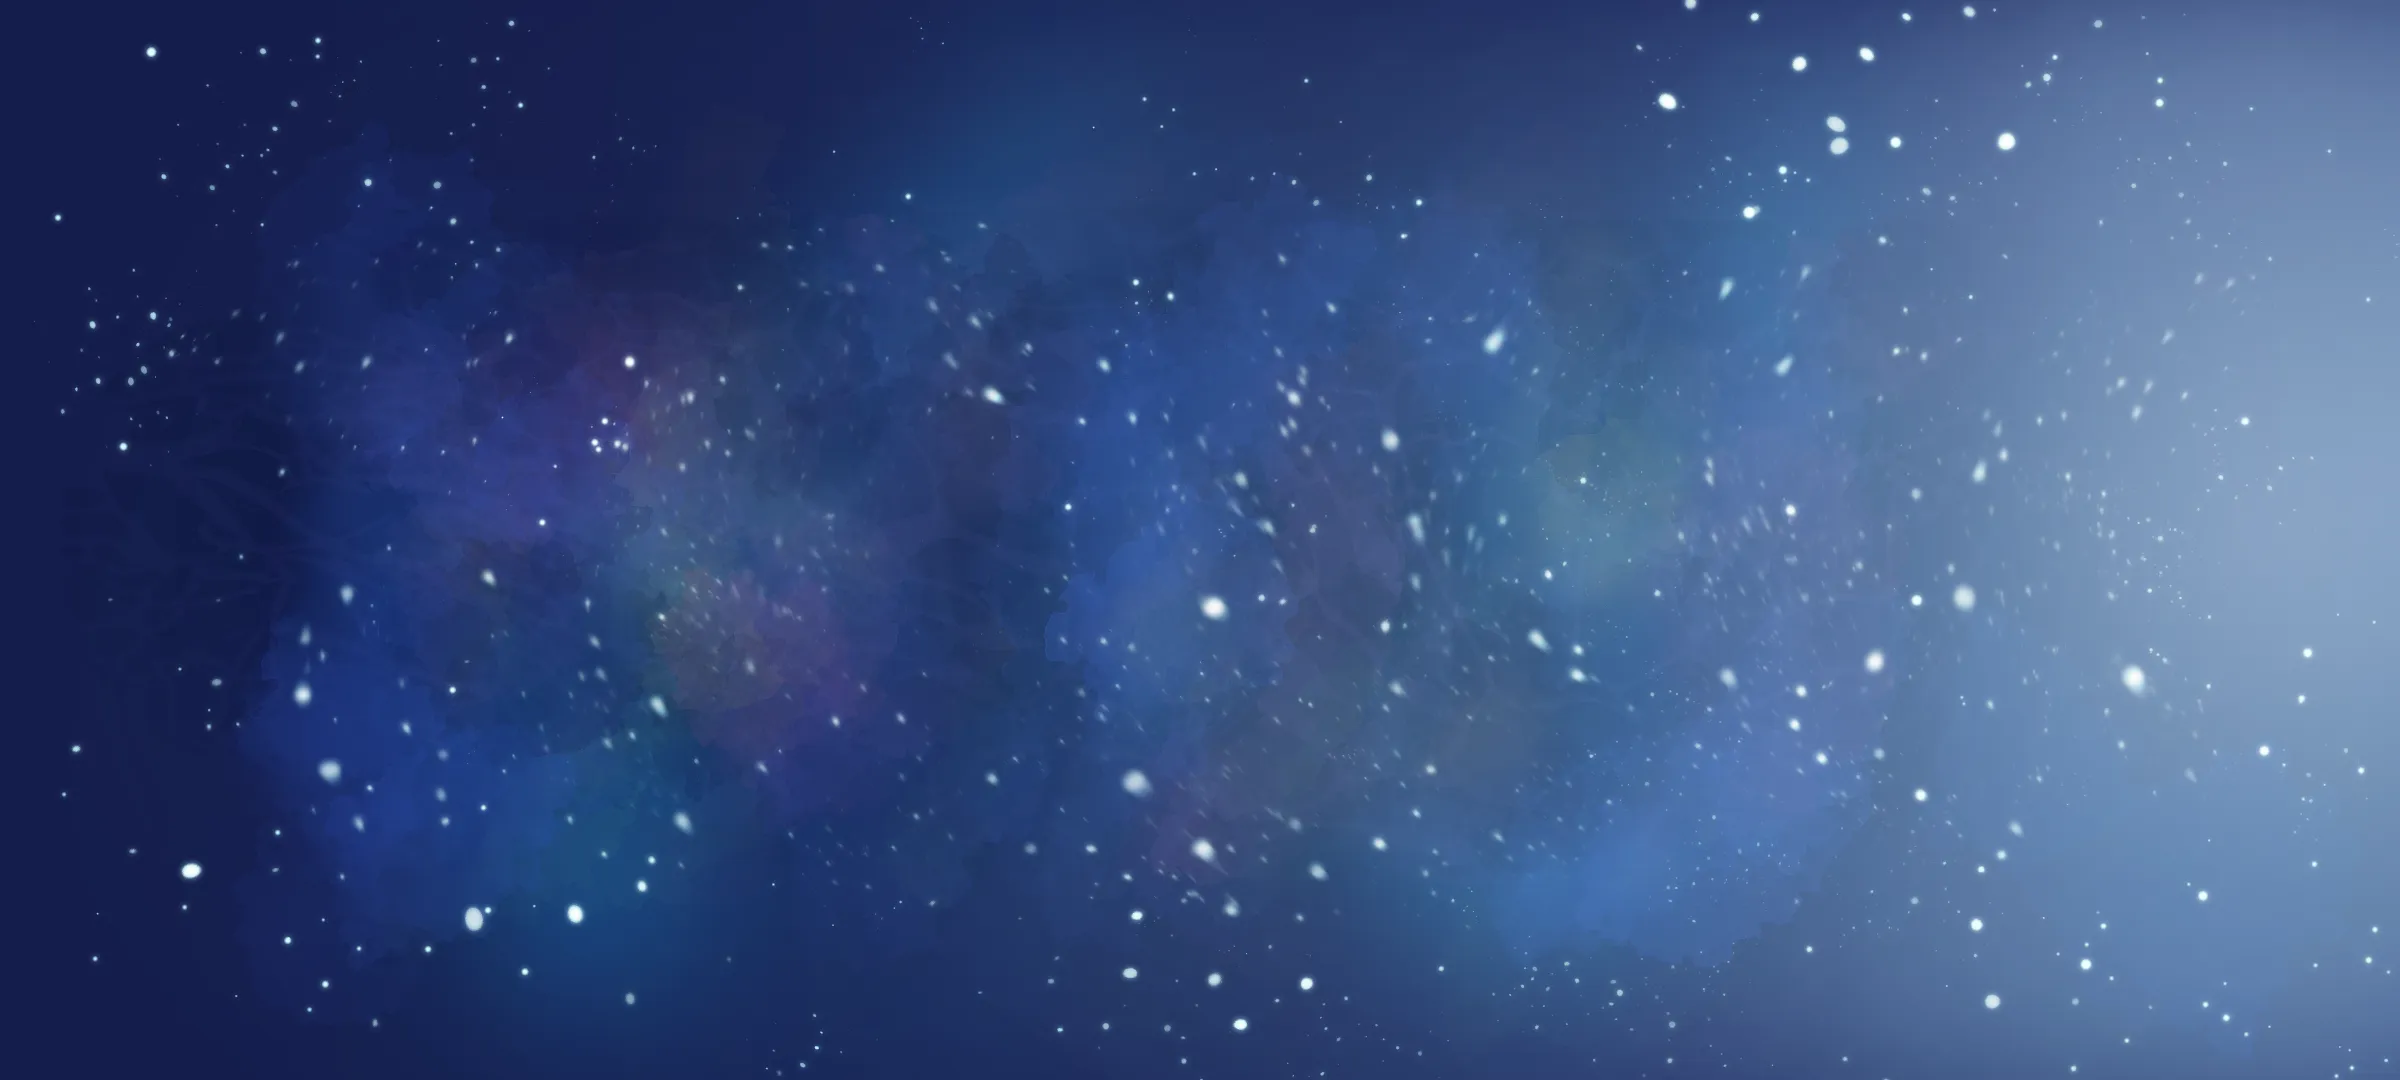
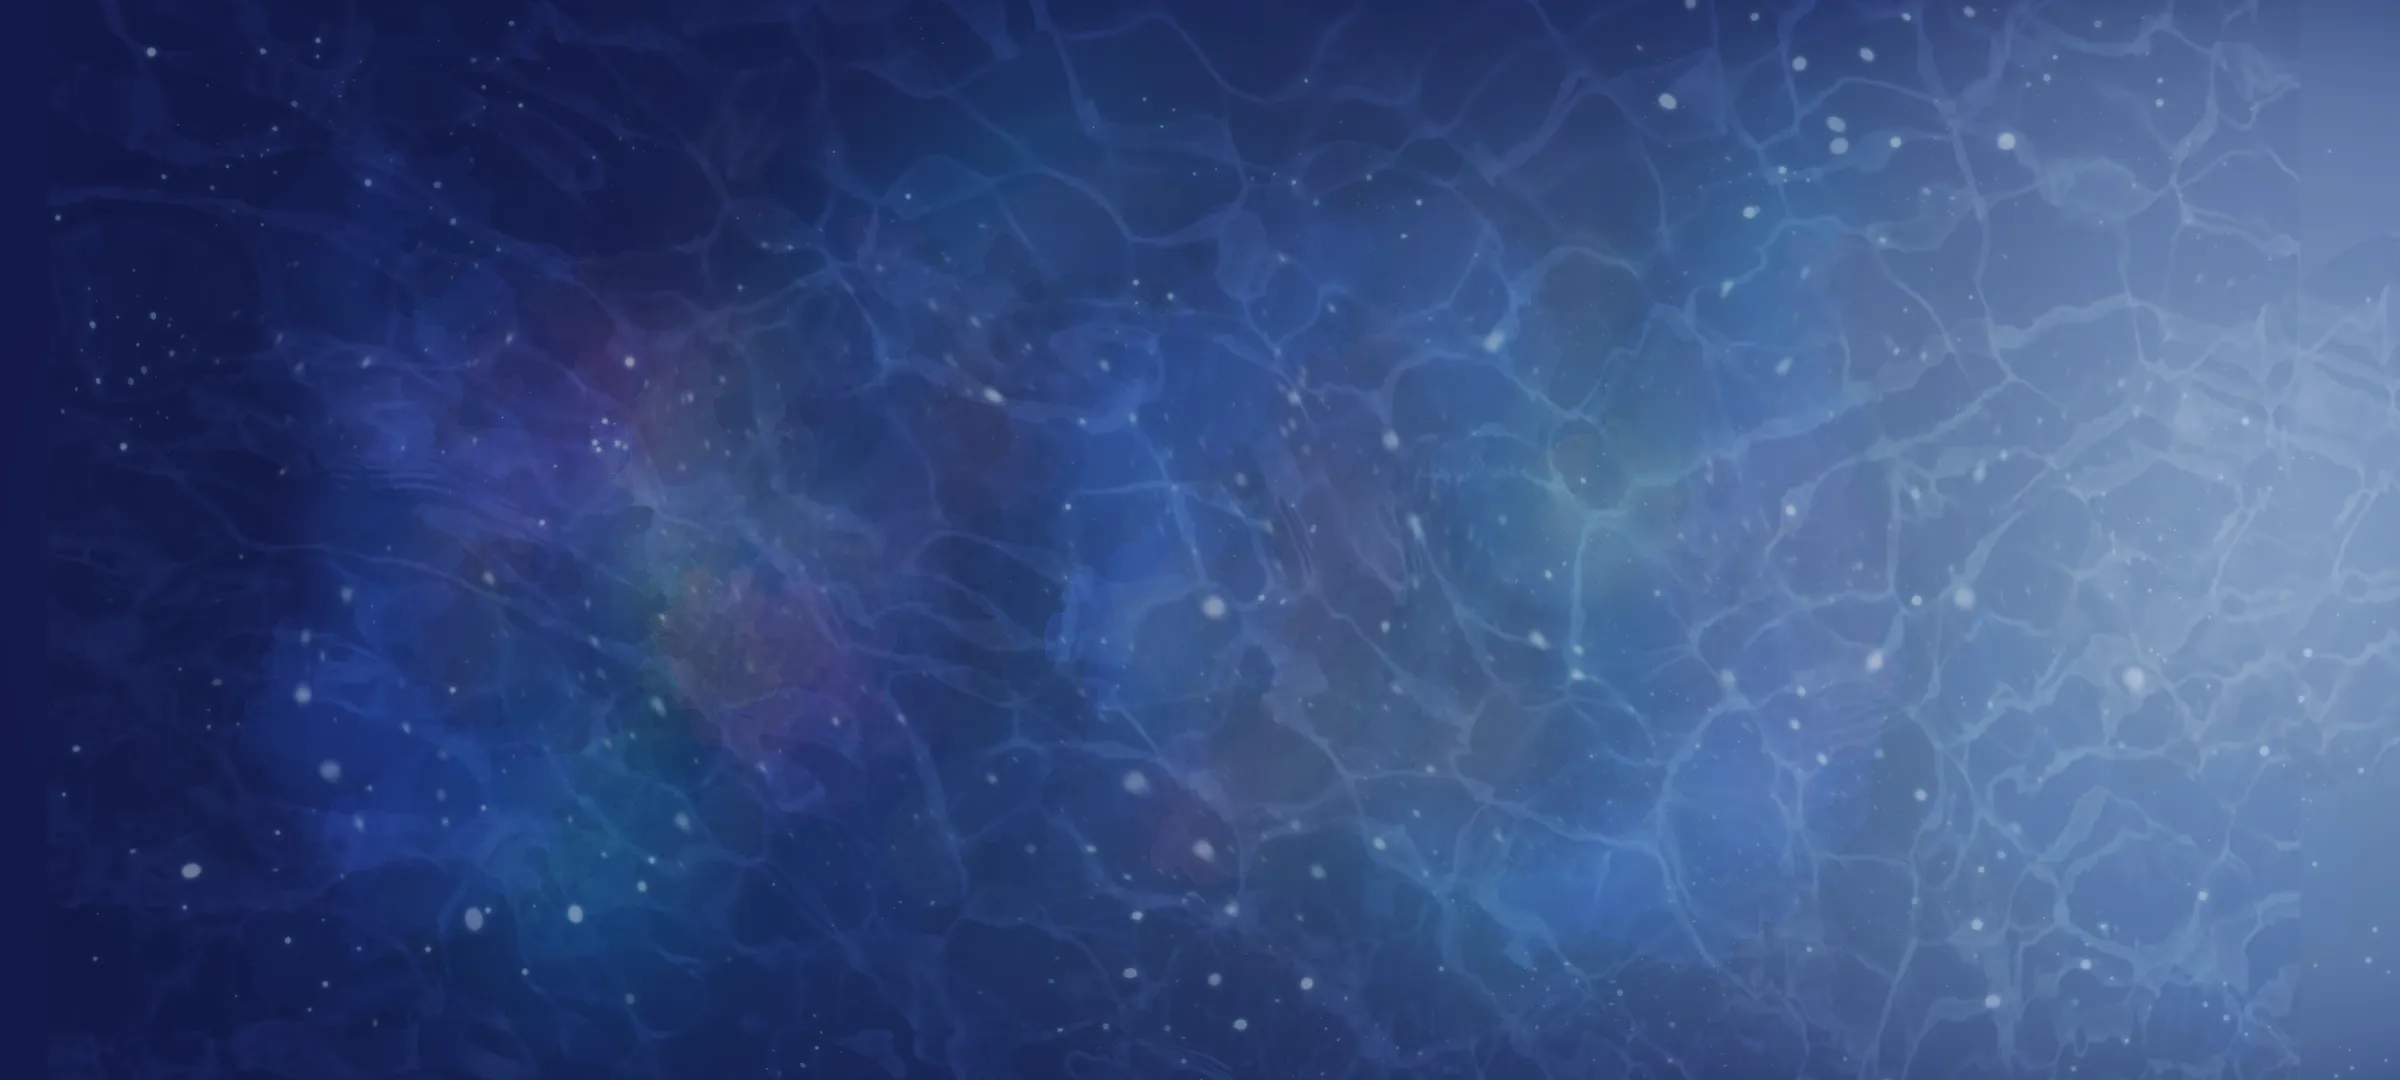
Background switchs

diff --git a/client/src/scene/matchRegions/backgroundRegion.ts b/client/src/scene/matchRegions/backgroundRegion.ts
@@ -50,10 +50,11 @@ function fitBackgroundWidth(
   anchor.setOffset(anchor.offsetX, offset)
 }
 
-/** Full-screen match backdrop; recap state tints the image. */
+/** Full-screen match backdrop; recap darkens the top/bottom chrome and fades in the night layer. */
 export default class BackgroundRegion extends Region {
-  water: Phaser.GameObjects.Image
-  /** Night layer over the water; alpha follows recap (night) vs round (day). */
+  /** Full-bleed day backdrop under the night overlay and top/bottom chrome. */
+  matchDay: Phaser.GameObjects.Image
+  /** Night layer over matchDay; alpha follows recap (night) vs round (day). */
   waterNight: Phaser.GameObjects.Image
   matchTop: Phaser.GameObjects.Image
   matchBottom: Phaser.GameObjects.Image
@@ -62,7 +63,9 @@ export default class BackgroundRegion extends Region {
     this.scene = scene
     this.container = scene.add.container().setDepth(-1)
 
-    this.water = scene.add.image(0, 0, 'background-water').setOrigin(0)
+    this.matchDay = scene.add
+      .image(0, 0, 'background-matchDay')
+      .setOrigin(0)
 
     this.waterNight = scene.add
       .image(0, 0, 'background-matchNight')
@@ -79,20 +82,20 @@ export default class BackgroundRegion extends Region {
       .setOrigin(0.5, 0)
       .setInteractive()
 
-    this.container.add(this.water)
+    this.container.add(this.matchDay)
     this.container.add(this.waterNight)
     this.container.add(this.matchTop)
     this.container.add(this.matchBottom)
 
-    const fitWaterLayers = (viewport: { width: number; height: number }) => {
-      fitBackgroundCover(this.water, viewport.width, viewport.height)
+    const fitDayLayers = (viewport: { width: number; height: number }) => {
+      fitBackgroundCover(this.matchDay, viewport.width, viewport.height)
       fitBackgroundCover(this.waterNight, viewport.width, viewport.height)
     }
 
-    scene.plugins.get('rexAnchor')['add'](this.water, {
+    scene.plugins.get('rexAnchor')['add'](this.matchDay, {
       x: `0%`,
       y: `0%`,
-      onUpdateViewportCallback: (viewport) => fitWaterLayers(viewport),
+      onUpdateViewportCallback: (viewport) => fitDayLayers(viewport),
     })
 
     scene.plugins.get('rexAnchor')['add'](this.waterNight, {
@@ -132,13 +135,15 @@ export default class BackgroundRegion extends Region {
     return this
   }
 
-  /** Tween tint between normal and recap (night) look. */
+  /** Tween tint on top/bottom match art and night layer for recap. */
   tweenTintForRecap(isRecap: boolean): void {
-    const startTint = this.water.tintTopLeft
-    const endTint = isRecap ? 0x666666 : 0xffffff
+    this.matchDay.clearTint()
+
+    const startTint = this.matchTop.tintTopLeft
+    const endTint = isRecap ? 0x888888 : 0xffffff
 
     const startNightAlpha = this.waterNight.alpha
-    const endNightAlpha = isRecap ? 0.5 : 0
+    const endNightAlpha = isRecap ? 1 : 0
 
     const startR = (startTint >> 16) & 0xff
     const startG = (startTint >> 8) & 0xff
@@ -159,14 +164,16 @@ export default class BackgroundRegion extends Region {
         const g = Math.round(startG + (endG - startG) * t)
         const b = Math.round(startB + (endB - startB) * t)
         const tint = (r << 16) | (g << 8) | b
-        this.water.setTint(tint)
+        this.matchTop.setTint(tint)
+        this.matchBottom.setTint(tint)
         this.waterNight.setAlpha(
           startNightAlpha + (endNightAlpha - startNightAlpha) * t,
         )
       },
       onComplete: () => {
         if (!isRecap) {
-          this.water.clearTint()
+          this.matchTop.clearTint()
+          this.matchBottom.clearTint()
         }
         this.waterNight.setAlpha(endNightAlpha)
       },

diff --git a/client/src/loader/assetLists.ts b/client/src/loader/assetLists.ts
@@ -386,9 +386,10 @@ export const assetLists = {
     "files": [
       "Light",
       "matchBottom",
+      "matchDay",
       "matchNight",
-      "matchTop",
-      "water"
+      "matchNight",
+      "matchTop"
     ],
     "pixelArt": false
   },
